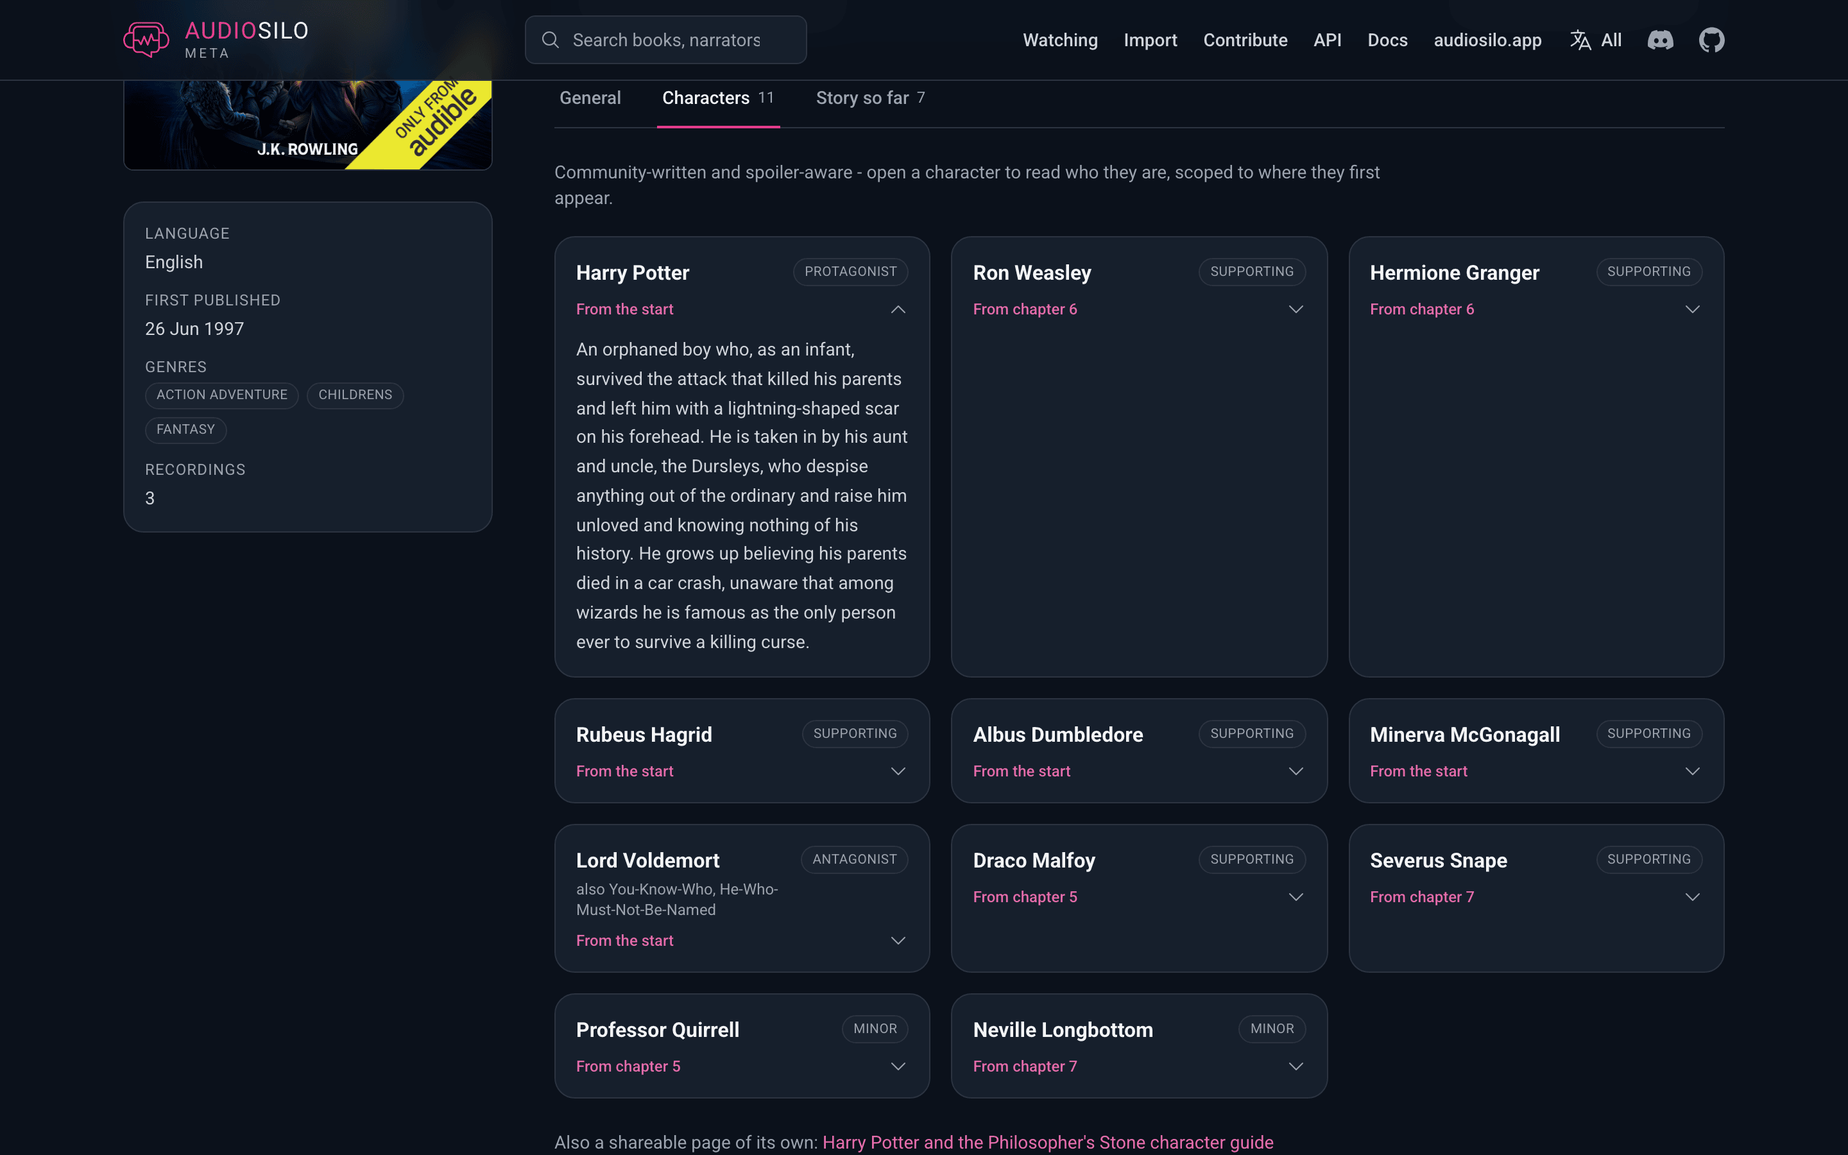
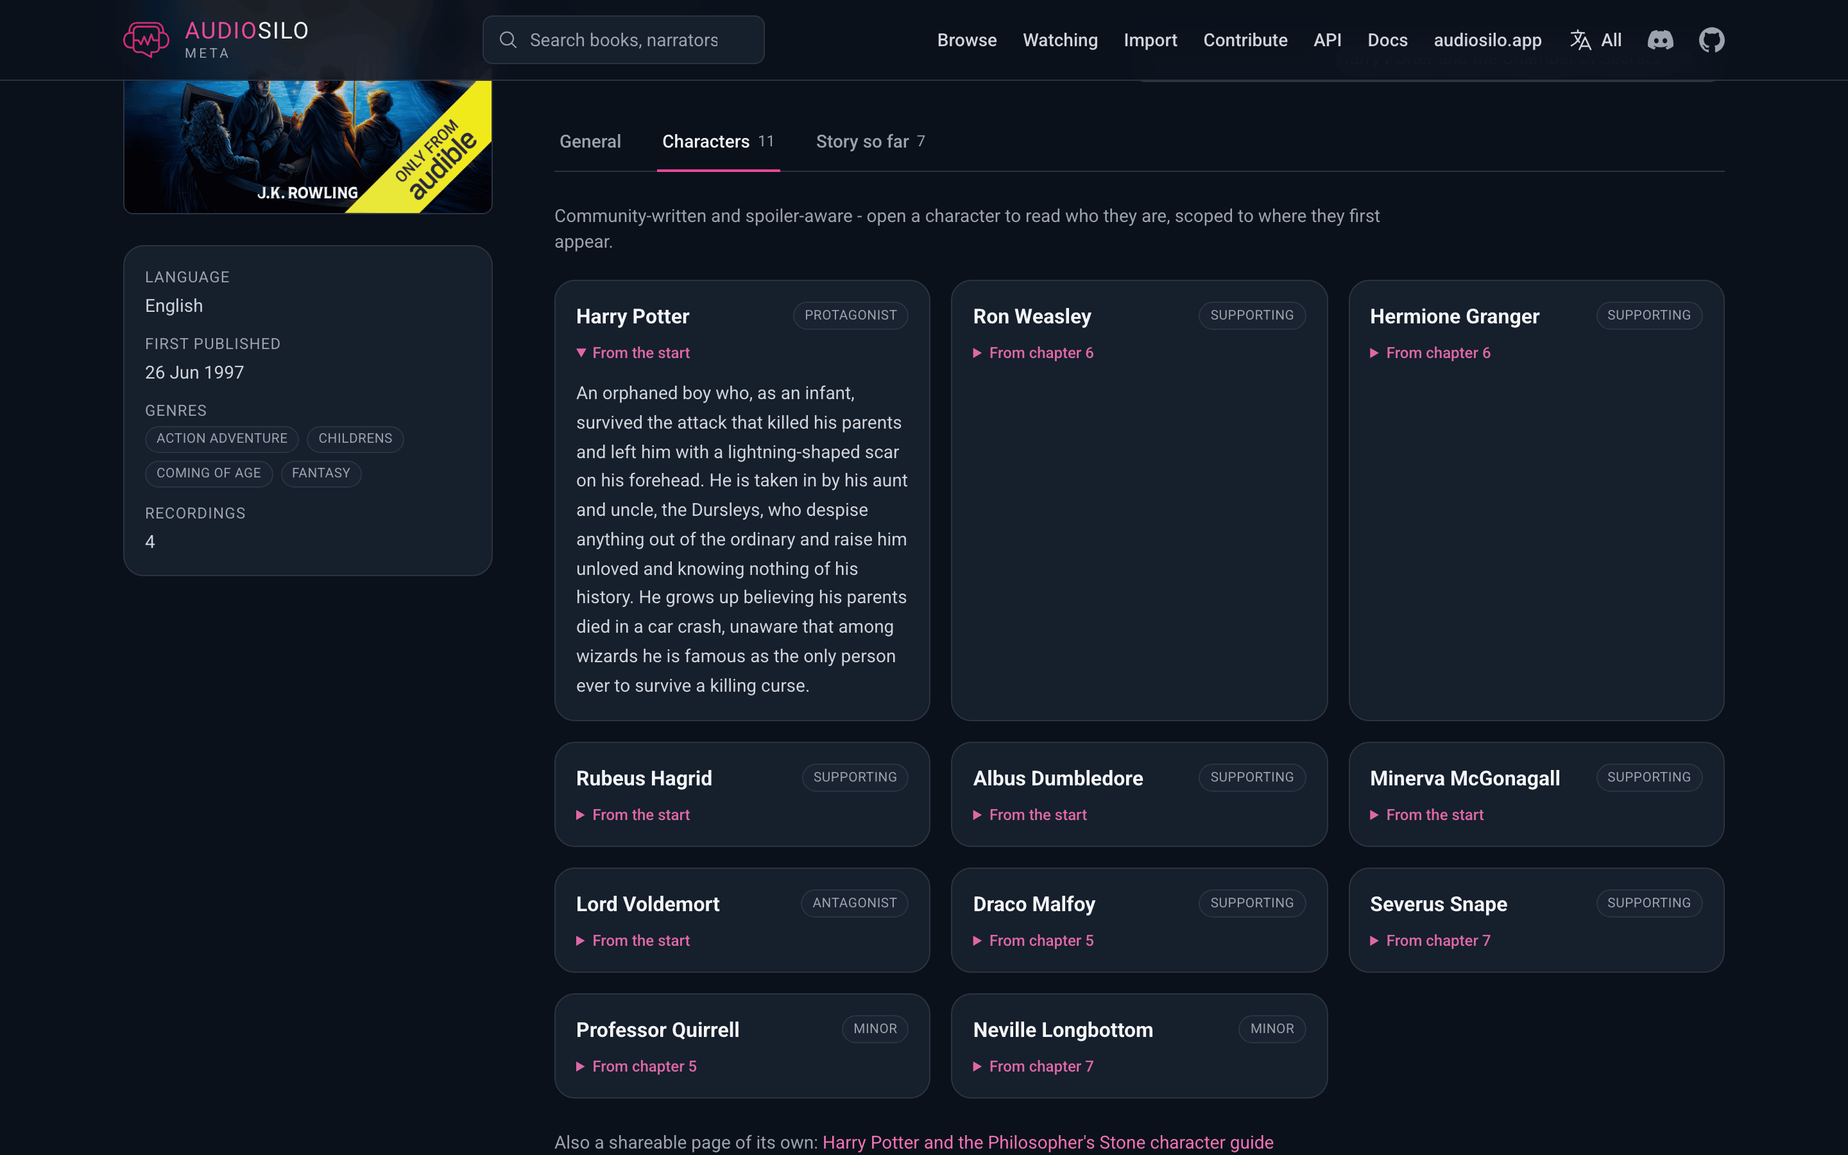
docs: describe catalogue browsing and recording choices

diff --git a/docs-developers/meta/api.md b/docs-developers/meta/api.md
@@ -373,10 +373,11 @@ works in the named languages: `lang=de`, or `lang=de,en` for two. It applies to:
 | `/api/v1/coverage/works` | a work's language |
 | `/api/v1/people/search` | **accepted and ignored** - a person has no language - but still validated |
 
-Everything that names a record outright is **never** filtered: `works/{id}`,
+The existing entity-detail and identifier routes are **never** filtered: `works/{id}`,
 `series/{id}`, `people/{id}`, `lookup`, the HTML entity pages, the sitemaps and
 the watch feeds. Hiding a record there would be a 404 for a book the catalogue
-holds.
+holds. The separate person-recordings endpoint has its own recording-language
+filter, described below.
 
 **Parsing** (`parseLangFilter` in `pkg/query/langfilter.go`, the one parser
 every surface reads):
@@ -690,6 +691,15 @@ other, since no store feed reports it. The fact sheet and the site label them
 "Audiobook Guild" and "GraphicAudio". A client that doesn't know a `links` key
 or a `retailer` ignores it; against an artifact older than 11 neither appears.
 
+Recordings also carry optional `language` and `abridgement` fields.
+`abridgement` is `abridged` or `unabridged` only when the source states it;
+absence means unknown. Artifact **schema 12** preserves explicit source
+`abridged: false` in a nullable `recordings.abridgement` column. Against older
+artifacts, legacy true still yields `abridged`, but legacy false yields no
+`abridgement`. The existing optional `abridged` boolean remains compatible and
+must not be used to infer unabridgement. The site's comparison and JSON-LD use
+the same presence rule; no format or retailer availability is inferred.
+
 The two AudioSilo consumers of this route choose by `ordering_of` rather than by
 that order, so neither depends on it: audiosilo-server collapses each ordering
 family into one series rail whose main view is the first membership with no
@@ -774,6 +784,65 @@ returned and the echoed `limit` is `0` (the player's series rail depends on gett
 the complete list). Pass `?limit=` - clamped to a maximum of **500** - with an
 optional `?offset=` to window it. `works_total` is always the unpaged member count,
 so it is the reliable "how long is this series" number either way.
+
+## `/api/v1/series/{id}/listening-guide?limit=&offset=`
+
+A bounded series page with recording alternatives, or **404** `series not found`:
+
+```json
+{ "id": "the-saga", "name": "The Saga", "authors": [],
+  "entries": [{ "position": "2.5", "work": { "id": "a-work", "title": "A work" },
+    "recordings_total": 7, "recordings_limit": 5,
+    "recordings": [{ "id": "a-reading", "narrators": [{ "id": "a-reader", "name": "A reader" }],
+      "language": "en", "abridgement": "unabridged", "runtime_min": 480,
+      "release_date": "2026", "publisher": "A publisher", "chapter_count": 20 }] }],
+  "works_total": 1, "limit": 50, "offset": 0 }
+```
+
+`work` is the full compact workCard shape described above (abbreviated in these
+examples). The response also carries the series' optional `language`, `ordering`,
+`ordering_of`, `orderings`, `translation_of` and `translations` metadata under
+the existing series rules. Members sort by the numeric start of their position,
+then position string and work id, retaining decimal and range positions.
+`works_total` is the unpaged catalogued member count.
+
+Each `RecordingSummary` has `id` and `narrators[]`; `language`, `abridgement`,
+`runtime_min`, `release_date`, `publisher` and `chapter_count` are omitted when
+unstated or zero. Summaries contain no identifiers or chapter bodies. A work
+gets at most **five** alternatives, deterministically by recording id;
+`recordings_total` counts all its recordings and `recordings_limit` is `5`.
+An empty array means no recording is catalogued, not that none exists.
+
+## `/api/v1/people/{id}/recordings?limit=&offset=&series=&lang=`
+
+Narration credits, retaining separate recordings of a work and deduplicating a
+repeated credit on the same recording:
+
+```json
+{ "recordings": [{ "work": { "id": "a-work", "title": "A work" },
+    "recording": { "id": "a-reading", "narrators": [] },
+    "series": [{ "id": "the-saga", "name": "The Saga", "position": "2.5" }] }],
+  "total": 1, "limit": 50, "offset": 0 }
+```
+
+`work` is a workCard and `recording` is the RecordingSummary above. `series[]`
+contains the work's memberships, primary orders before variants, and is empty
+for a standalone work. Rows sort by work title, work id and recording id.
+`total` counts matching recording credits before paging. A known person with
+no matching credits gets an empty array; an unknown person gets **404**
+`person not found`. Authorship and translation credits remain on `people/{id}`.
+
+`series` optionally matches one exact series slug (invalid syntax is **400**).
+`lang` uses the shared language parser and primary-subtag matching against the
+**recording's** stated language; unknown recording languages do not match a
+filter. Invalid language values are **400**. Both filters apply before counting
+and paging, and this endpoint does not depend on the older work-language gate.
+
+Both new endpoints default `limit` to **50**, cap it at **100**, and default
+`offset` to **0**. Invalid/non-positive limits use the default; invalid/negative
+offsets use zero. A window beyond the end returns an empty array with the true
+total. They use bounded indexed reads and batch only the current page's
+recordings and credits, without a full work-detail read per row.
 
 ## `/api/v1/lookup?asin=|isbn=|librivox_id=`
 
@@ -1241,6 +1310,51 @@ created with mode 0600 (a file that already exists keeps its own mode).
 That covers metaserve alone: a reverse proxy in front logs what it is set to log, so
 check its access log for this route.
 
+## HTML routes and sitemaps
+
+With `--site`, metaserve renders catalogue facts and embeds the entity payload
+before React hydrates. These are HTML routes, not additional JSON endpoints:
+
+| Route | Content |
+|---|---|
+| `/browse` | Directory links to works, series, people and existing guides |
+| `/browse/works`, `/browse/series`, `/browse/people`, `/browse/characters`, `/browse/recaps` | Up to 50 entries per page, in stable id order |
+| `/works/{id}` | Every recording, comparison links to `#recording-{rid}`, and detailed cards |
+| `/works/{id}/characters`, `/works/{id}/recap` | Existing community guides with closed spoiler disclosures |
+| `/series/{id}` | Up to 50 ordered works and their bounded listening-guide alternatives |
+| `/people/{id}` | Authorship/translation lists and 50 narrated recording credits per page |
+| `/works/{id}/recordings/{rid}/chapters` | Up to 100 chapter titles, starts and durations for a validated recording |
+
+Paged routes use `?page=N`; page one omits the query and later pages keep it in
+their canonical URL and normal previous/next links. Malformed, empty, repeated,
+non-positive or above-1,000,000 page values are **400**. Out-of-range pages and
+missing entities/recordings are **404**. Empty catalogued directories and
+recordings with no chapters have a meaningful first page. Alternate valid page
+spellings and extra query parameters redirect to the canonical page URL.
+Legacy `/work?id=`, `/person?id=` and `/series?id=` links redirect to their
+canonical paths; retired slugs preserve relevant pagination and guide/recording
+suffixes. The JSON chapter endpoint retains its separate empty-list behavior
+for an unknown recording.
+
+Absent data or a temporary HTML composition failure returns **503** with
+`Retry-After` and `Cache-Control: no-store`. A missing or broken site shell
+returns **500** with `no-store`, never a successful blank entity page. A real
+missing record remains **404**. Spoiler bodies and aliases remain in the DOM
+inside closed native `details` elements, marked `data-nosnippet`; work tab
+panels stay mounted with `hidden` semantics.
+
+`/sitemap-index.xml` lists the static sitemap when present and the generated
+`/sitemaps/{family}-{shard}.xml` shards (up to 50,000 URLs each). Entity URLs
+omit `lastmod`: `added_at`, import dates and artifact build times cannot establish
+when a page's content changed. The index dates generated shards by artifact
+build time only. Family/id order is deterministic, not a crawl-priority claim;
+neither `priority` nor `changefreq` is emitted. True entity revision tracking
+remains follow-up work. Sitemap validators include artifact identity, renderer
+version, site URL and available build revision; this is cache invalidation, not
+a content-revision date, and release builds without VCS metadata may have no
+build revision. A missing artifact or failed shard composition returns **503**
+with `Retry-After` and `no-store`.
+
 ## Flags
 
 `cmd/metaserve` is flag wiring only; every knob maps onto `internal/serve.Config`:
@@ -1352,8 +1466,8 @@ and `works/match`, which a reader expects to track the search box. A route that
 states its own keeps it: the [watch feeds](#caching) and the
 [OpenAPI document](#apiv1openapijson) (`max-age=3600`), and the
 [intake queue](#unknown-asin-intake-queue-optional) (`no-store`). Every other status
-gets no default (`internal/serve/cache.go`): a catalogue error or 503 carries no
-`Cache-Control`, a 429 carries `no-store`, and only the answers whose handler
+gets no default (`internal/serve/cache.go`): a catalogue read error carries no
+`Cache-Control`, a no-artifact 503 and a 429 carry `no-store`, and only answers whose handler
 states one keep it (a retired slug's 301 and a watch feed's 304, both
 `max-age=3600`, and every intake queue answer, `no-store`).
 

diff --git a/docs-users/community/meta-site.md b/docs-users/community/meta-site.md
@@ -32,6 +32,13 @@ straight to the exact recording. You don't need to get apostrophes right:
 Below the search box you'll find the latest additions and a running count of what
 the community has catalogued so far.
 
+**Browse** in the header, home page and footer opens directories of audiobooks,
+series, authors and narrators, character guides and recap guides. Each directory
+has ordinary links and pages of up to 50 entries, so you can explore without a
+search term.
+
+![The audiobook browse directory](/img/screenshots/meta/browse.png)
+
 ![Search results for a series query](/img/screenshots/meta/search.png)
 
 - A **book page** lists every catalogued narration of that title. Each recording
@@ -43,9 +50,47 @@ the community has catalogued so far.
   (including half-numbers like 2.5).
 - A **person page** collects everything a narrator or author is credited on.
 
+**Compare recordings** on a book page puts narrator, language,
+abridgement, runtime, release date, publisher and chapter count side by side.
+Follow a recording link to its detailed card. **Unknown** means the catalogue
+does not state that fact; a missing abridgement flag does not prove a recording
+is unabridged. Store links let you check a retailer, without claiming current
+availability or inferring a production format from a narrator or publisher.
+
+![Comparing the catalogued recordings of a book](/img/screenshots/meta/work-comparison.png)
+
+For a recording with chapters, **Browse chapter titles, starts and durations**
+opens its chapter directory, with up to 100 chapters per page. It also links
+back to the recording's card.
+
+![A recording's chapter titles, start times and durations](/img/screenshots/meta/chapters.png)
+
 ![A work page with its recordings](/img/screenshots/meta/work.png)
 
 ![A series page in reading order](/img/screenshots/meta/series.png)
+
+## Planning a series and following a narrator
+
+A series page's **Listening guide** follows its stated reading order, including
+decimal and range positions. It shows up to five catalogued recordings per work;
+when there are more, **Compare every recording** opens the book page. **No
+recording catalogued** describes a gap in this catalogue.
+
+Choose one recording per work to use the **Listening time planner**. Its subtotal
+adds only known runtimes for your explicit choices on the current page. Unchosen
+works, unknown runtimes, overlapping positions and entries on other pages keep a
+plan partial. Choices last while that page is open and do not carry between
+pages. Narrator continuity also counts only the displayed alternatives on this
+page; it does not promise the same narrator across the whole series.
+
+![A series listening guide with recording choices](/img/screenshots/meta/series-listening-guide.png)
+
+On a person page, **Narrated recordings** keeps separate versions of the same
+book as separate credits. The page groups its current 50-credit window by series
+and recording language, with links to the precise recording. Use the page links
+to see more credits; a group on one page is not a complete series discography.
+
+![A narrator's recording credits grouped by series and language](/img/screenshots/meta/person-recordings.png)
 
 ## Choosing languages
 
@@ -113,9 +158,9 @@ On a book page, two extra tabs appear once the community has written them - the
 same material the player shows on a book's page (see [Recaps and characters](../listening/recaps-and-characters.md)):
 
 - **Characters** - a card for each person in the book, written by readers in
-  their own words. A card's name, role and aliases are always visible, along with
-  the chapter where the character first appears; the description stays hidden
-  behind the card until you open it, so you choose when to read on.
+  their own words. A card's name, role and first-appearance chapter are visible;
+  its description and aliases stay inside a closed disclosure until you open it,
+  so you choose when to read on.
 - **Story so far** - short "what's happened up to here" recaps, each labelled
   with the chapter it is safe to read after. Every recap stays closed until you
   open it, so you can catch up to exactly where you've listened without spoiling

diff --git a/docs-developers/meta/overview.md b/docs-developers/meta/overview.md
@@ -155,6 +155,20 @@ Being public, they follow the
 rules: the handler's responses change additively, and so does the artifact
 schema ([how its versions are gated](data-model.md#the-compiled-artifact-and-schema-versioning)).
 
+The catalogue query surface also includes `SeriesListeningGuide` and
+`PersonRecordings`: bounded member/credit pages with batched recording summaries
+and narrator credits, without constructing a `WorkDetail` per member. `Browse`
+reads directory pages and `RecordingChapters` reads a validated recording's
+chapter window. Their HTTP contracts are in [the API reference](api.md).
+
+Artifact **schema 12** adds the nullable `recordings.abridgement` column and
+indexes for catalogue reads. It retains an explicitly stated `abridged: false`
+as `unabridged`, while an absent flag stays unknown. `model.Recording` preserves
+that distinction through JSON round trips using `AbridgedKnown`; the legacy
+`Abridged` field remains compatible. On older artifacts only legacy true proves
+`abridged`; false does not prove `unabridged`. The API's optional `abridgement`
+and recording `language` fields are additive.
+
 ## The CLI tool set at a glance
 
 Each command is a thin `cmd/*` wrapper over a package; run any of them with `go
@@ -367,6 +381,36 @@ own pull requests.
 provider** (`GET /abs/search`, plus `GET /abs/{lang}/search`, which ranks one
 language's matches first) for that competitor's users - see
 [the HTTP API](api.md#get-abssearch-audiobookshelf-provider).
+
+## The HTML catalogue
+
+`internal/serve` injects entity facts and embedded payloads into the Astro shells;
+React islands reuse that payload instead of showing a loading screen first.
+Work comparisons link to stable recording anchors and paginated chapter pages.
+The `/browse` directories provide normal links to works, series, people and
+existing community guides. Series guides and person recording credits use
+50-row pages; recording chapter pages use 100 rows. See
+[HTML routes and sitemaps](api.md#html-routes-and-sitemaps) for canonical URLs
+and error responses.
+
+Character aliases/descriptions and recap bodies remain in the rendered DOM
+inside closed native `details`/`summary` disclosures, with `data-nosnippet` on
+spoiler bodies. Work tab panels stay mounted with `hidden` semantics. These
+changes expose existing community prose; they do not generate missing content.
+
+Series recording choices and runtime subtotals apply only to the current page.
+The guide shows at most five alternatives per work, with the true recording
+count and a link to all alternatives. Narrator continuity and person credit
+groups describe that page's rows, not a complete series. A complete listening
+plan requires explicit choices, known runtimes and non-overlapping positions
+for every catalogued entry; a partial subtotal never sums alternatives. Neither
+recording presence nor retailer links establish availability or production format.
+
+The artifact has creation/import dates, not trustworthy entity revision dates.
+Entity sitemap URLs therefore omit `lastmod`; the sitemap index can still date
+the generated shards by artifact build time. Per-entity revision tracking,
+source-verified enrichment and measured Search Console experiments remain
+follow-up work, not evidence supplied by this change.
 
 ## The site's watchlist is client-side only
 

diff --git a/docs-developers/meta/data-model.md b/docs-developers/meta/data-model.md
@@ -747,6 +747,7 @@ expressive layer was added in later versions:
 | 9 | the LibriVox recording layer: `recordings.librivox_title`, `chapters.section_number`, and the `recording_credits` (`work_id, recording_id, person_id, role, ord`), `chapter_readers` (`work_id, recording_id, chapter_idx, person_id, ord`) and `recording_librivox_genres` (`work_id, recording_id, genre, ord`) tables, which the LibriVox-shaped feed answers its title, section numbers, translators, section readers and genres from, and `recording_sources.added_at` (each recording's own, so `works/latest?source=` orders by the source's recordings straight off its index) |
 | 10 | the `position_scales` table (the ruler a work's sidecars are numbered on) |
 | 11 | the store links: `recordings.link_audiobookguild` and `recordings.link_graphicaudio` (one column per store, not a table), which the API returns in the recording's `links` and as purchase links |
+| 12 | nullable `recordings.abridgement` preserves explicit abridgement presence; indexes support the bounded catalogue and chapter reads |
 
 `metaserve` returns characters, recaps, genres, the community description and
 the translation links inline on `GET /works/{id}` (`characters` / `recaps` /
@@ -761,14 +762,19 @@ recap summary below 3, genres below 4, redirects below 5, the description below 
 the languages layer below 7, the LibriVox layer below 8, the LibriVox recording
 layer below 9, position scales below 10 and the store links below 11, so a
 missing table or column reads as "no data", never a 500. An artifact that
-*claims* any version from 5 to 11 but lacks what that version adds (for 7: the
+*claims* any version from 5 to 12 but lacks what that version adds (for 7: the
 `translations` table or any of the series table's `language`, `ordering` and
 `ordering_of` columns; for 8: any of its columns or the `work_credits` and
 `recording_sources` tables; for 9: any of its columns or tables; for 10: the
-`position_scales` table; for 11: either store link column) is refused when it is
+`position_scales` table; for 11: either store link column; for 12: the
+`abridgement` column) is refused when it is
 loaded, naming the claim, because the builder always writes the two together. The same versioning drives the [coverage endpoints](api.md#coverage-endpoints), which omit a
 dimension's count rather than report it as a misleading zero when the artifact
 predates its table.
+
+Below schema 12, only legacy `abridged: true` establishes abridgement; false
+remains unknown. Schema 12 retains explicit false as `unabridged` while an absent
+source flag remains unknown (see [recording fields](api.md#apiv1worksid)).
 
 The opposite direction matters as much. Mirror-mode AudioSilo servers download
 the newest data release once a day and read it with the `pkg/query` their own

diff --git a/screenshots/README.md b/screenshots/README.md
@@ -611,6 +611,14 @@ covers, so missing cover art never fails a shot.
 `capture-meta.mjs` is standalone: point `META_BASE` at any `metaserve` (or the
 live site) and run `META_BASE=http://127.0.0.1:8795 node capture-meta.mjs` - it
 needs no other services (the /import fixture is vendored in `fixtures/`).
+Rebuild the selected checkout explicitly before starting its server when
+capturing changed UI, for example `cd "$META/site" && yarn build` under Node 24.
+Use `SHOTS_ONLY=meta/browse,meta/work,meta/chapters,meta/characters,meta/series,meta/person-recordings`
+for the catalogue views. The meta script skips unselected captures and exits
+nonzero if a requested capture fails; inspect the generated PNGs as well.
+Its work, series and person routes are canonical paths, and character captures
+open native `details`/`summary` disclosures. The series guide chooses two real
+catalogued alternatives on the current page without modifying the artifact.
 
 The two watchlist shots (`meta/series-watching.png`, `meta/watching.png`) need a
 site build that has the `/watching` page in it, and they run as a **pair**: the
